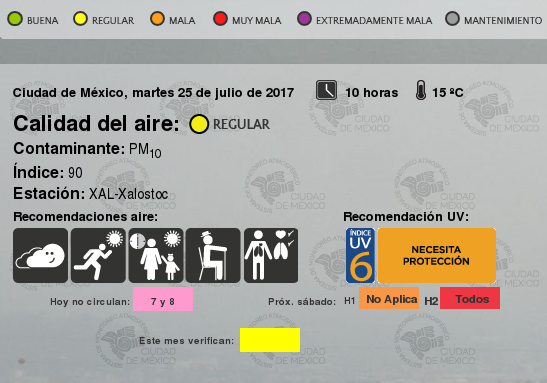
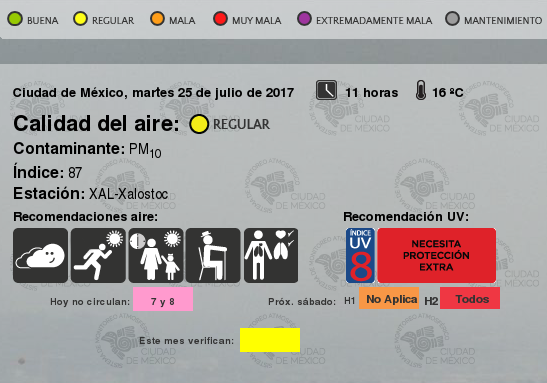
update images 25-07-2017 11:20

Changed region(s): [[0.6216, 0.5744, 0.9324, 0.7467], [0.6216, 0.2298, 0.6527, 0.2585], [0.1243, 0.4308, 0.1554, 0.4595]]

diff --git a/README.md b/README.md
@@ -9837,3 +9837,4 @@
 |25-07-2017 10:50
 |25-07-2017 11:03
 |25-07-2017 11:11
+|25-07-2017 11:20
